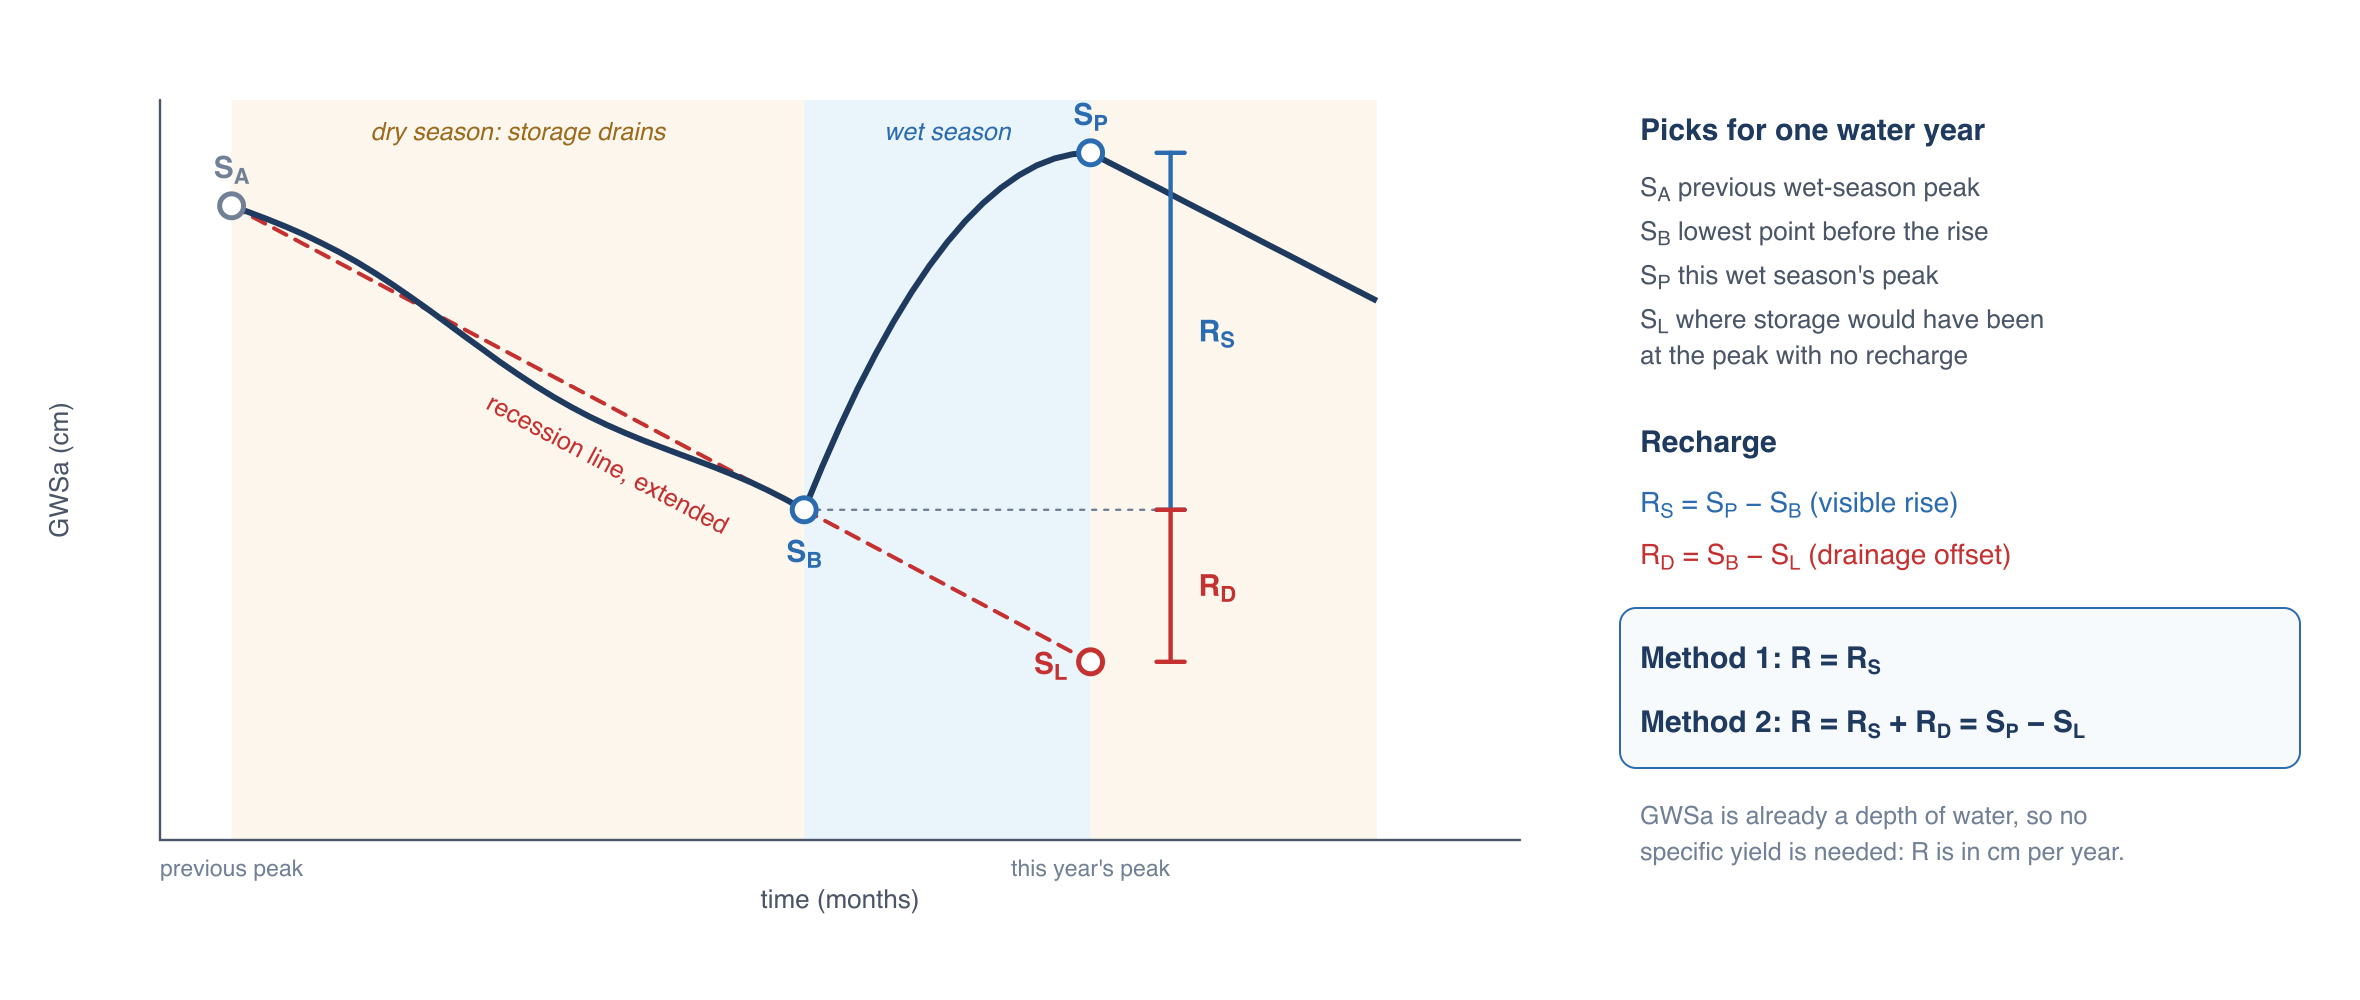
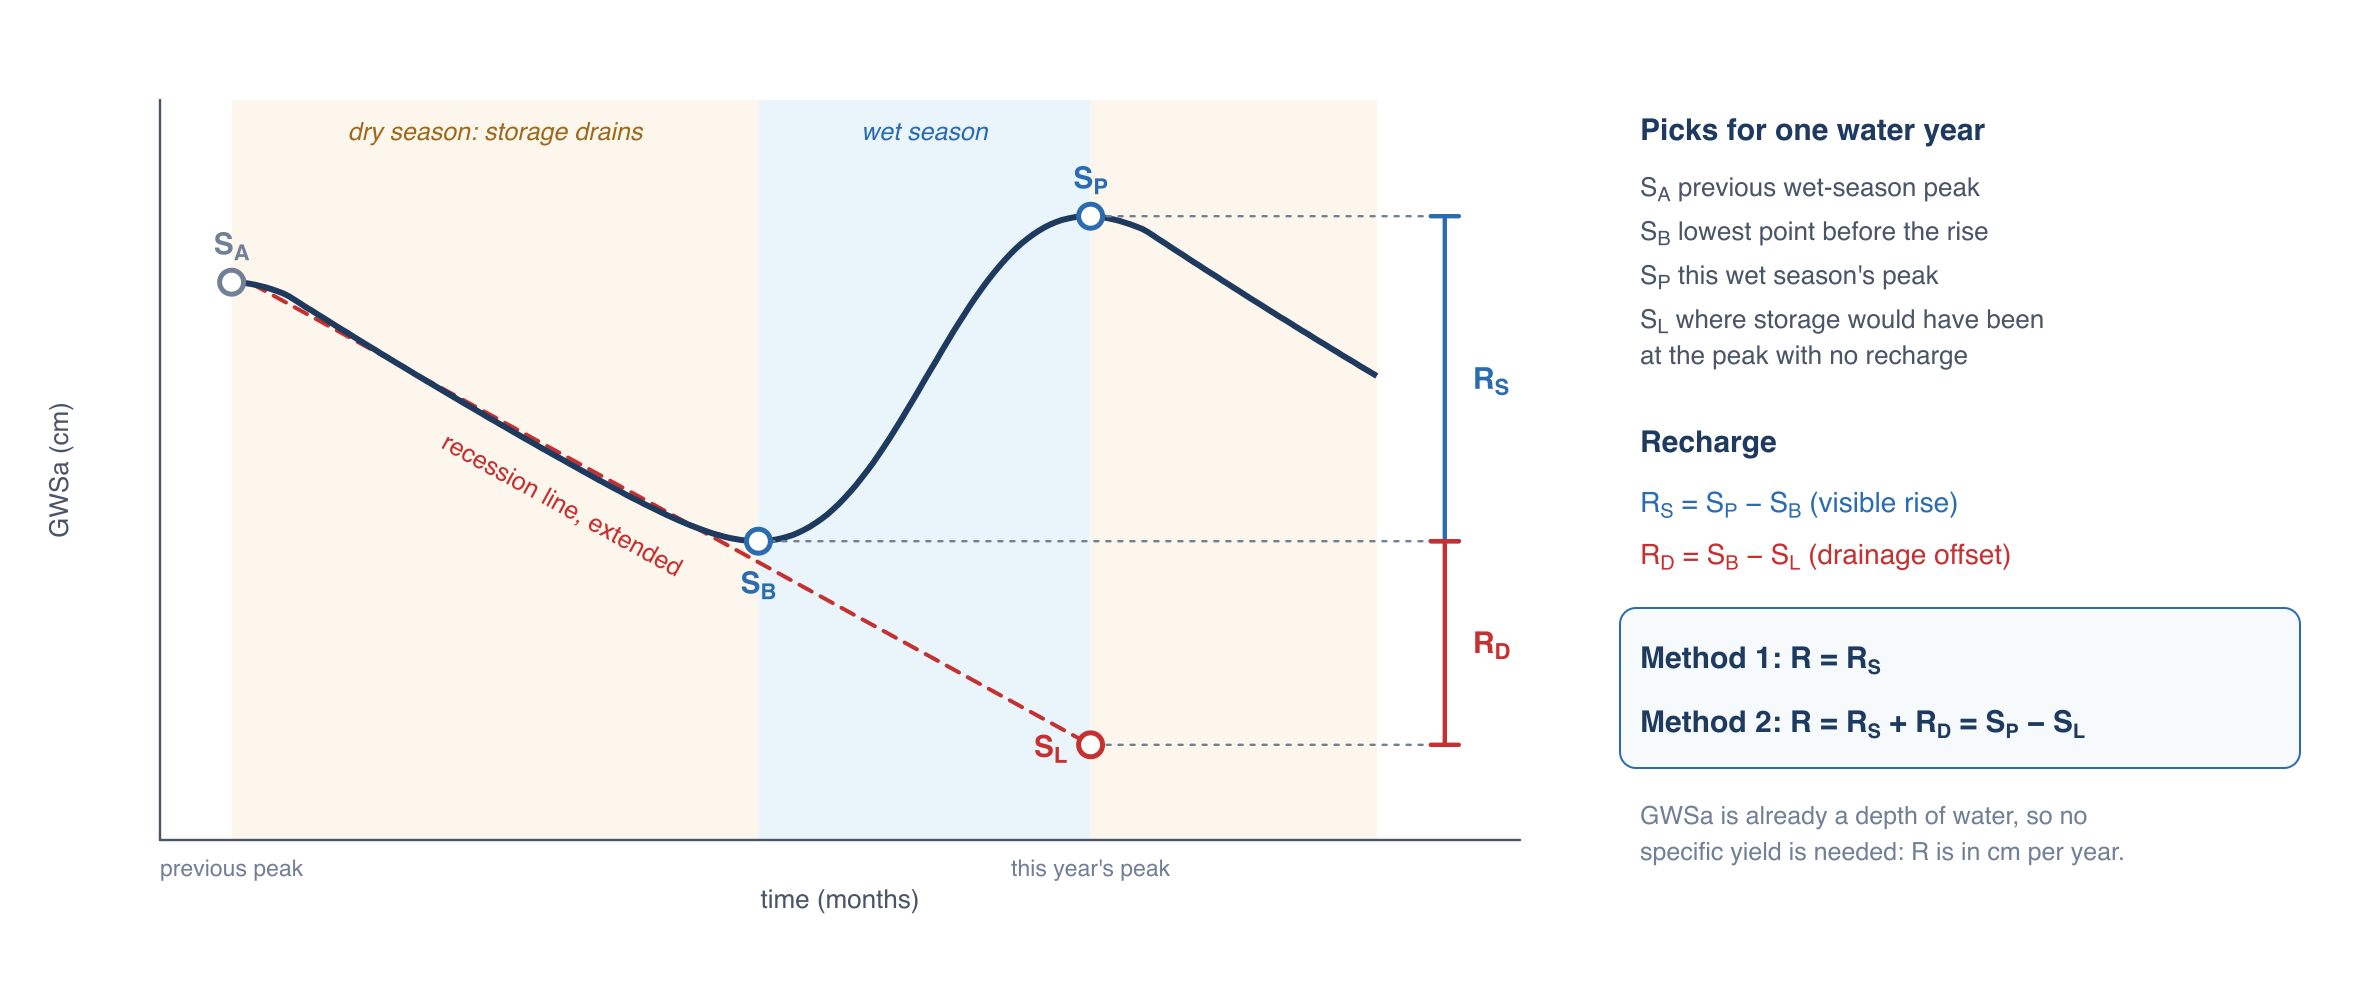
Draw the WTF concept curve from a linear reservoir model
The hand-built curve had a kink at the trough and a wobble in the
recession. The series now comes from storage draining in proportion to
its height with a smooth wet-season recharge pulse, which gives a natural
recession, a rounded trough and peak, and Rs larger than Rd. The
brackets move right of the curve, reached by dotted guides.

diff --git a/tools/grace-figures/wtf.py b/tools/grace-figures/wtf.py
@@ -11,49 +11,73 @@ def X(t):
     return L + (t + 1) / (months + 1) * (R - L)
 
 
-def Y(v):                               # v in cm, range -8 .. 6
-    return T + (6 - v) / 14 * (B - T)
+def Y(v):                               # vertical range fitted to the series and S_L below
+    return T + (Y_TOP - v) / (Y_TOP - Y_BOT) * (B - T)
 
 
-# synthetic series: peak at t=0, recession to t=8, wet-season rise to t=12, recession after
-def gw(t):
-    if t <= 8:
-        return 4 - 0.75 * t + 0.25 * math.sin(t)             # recession
-    if t <= 12:
-        s = (t - 8) / 4
-        b = 4 - 0.75 * 8 + 0.25 * math.sin(8)
-        return b + (5 - b) * (1 - (1 - s) ** 2)
-    return 5 - 0.7 * (t - 12)
+# Synthetic series from a linear reservoir: storage drains in proportion to its height above a base
+# level, and a smooth recharge pulse arrives each wet season. Spun up over several years so the cycle
+# is periodic, then cut from one wet-season peak (S_A, t = 0) to a few months past the next one.
+K, BASE, DT = 0.03, -20.0, 0.01                 # drainage rate (1/month), base level (cm), step (months)
 
 
-pts = [(t / 4, gw(t / 4)) for t in range(0, 4 * 16 + 1)]
-SA = (0, gw(0))
-SB = (8, gw(8))
-SP = (12, gw(12))
-slope = (SB[1] - SA[1]) / (SB[0] - SA[0])
-SL = (12, SA[1] + slope * 12)
+def recharge(t):
+    m = t % 12
+    return 4.0 * math.exp(-((m - 9.0) / 1.4) ** 2 / 2)
+
+
+series, s, t = [], 0.0, 0.0
+while t < 90:
+    s += DT * (recharge(t) - K * (s - BASE))
+    t += DT
+    series.append((t, s))
+peaks = [series[i] for i in range(1, len(series) - 1)
+         if series[i][1] > series[i - 1][1] and series[i][1] >= series[i + 1][1] and series[i][0] > 36]
+t0 = peaks[0][0]
+pts = [(tt - t0, v) for tt, v in series if t0 <= tt <= t0 + 16]
+step = max(1, len(pts) // 200)
+pts = pts[::step]
+
+SA = pts[0]
+SB = min((p for p in pts if p[0] < 12), key=lambda p: p[1])
+SP = max((p for p in pts if p[0] > SB[0]), key=lambda p: p[1])
+# recession line: least-squares fit through the series from S_A to S_B, extended to the peak time
+fit = [p for p in pts if p[0] <= SB[0]]
+n = len(fit); mx = sum(p[0] for p in fit) / n; my = sum(p[1] for p in fit) / n
+slope = sum((p[0] - mx) * (p[1] - my) for p in fit) / sum((p[0] - mx) ** 2 for p in fit)
+icpt = my - slope * mx
+SL = (SP[0], icpt + slope * SP[0])
+tB, tP, tEnd = SB[0], SP[0], pts[-1][0]
+span = max(p[1] for p in pts) - SL[1]
+Y_TOP, Y_BOT = max(p[1] for p in pts) + 0.22 * span, SL[1] - 0.18 * span
 
 out = []
 # seasons
-out += [f'<rect x="{X(0):.1f}" y="{T}" width="{X(8) - X(0):.1f}" height="{B - T}" fill="#fdf6ec"/>',
-        f'<rect x="{X(8):.1f}" y="{T}" width="{X(12) - X(8):.1f}" height="{B - T}" fill="#eaf4fb"/>',
-        f'<rect x="{X(12):.1f}" y="{T}" width="{X(16) - X(12):.1f}" height="{B - T}" fill="#fdf6ec"/>',
-        text((X(0) + X(8)) / 2, T + 20, "dry season: storage drains", 12.5, fill="#9c6a1d", italic=True),
-        text((X(8) + X(12)) / 2, T + 20, "wet season", 12.5, fill=C["blue"], italic=True)]
+out += [f'<rect x="{X(0):.1f}" y="{T}" width="{X(tB) - X(0):.1f}" height="{B - T}" fill="#fdf6ec"/>',
+        f'<rect x="{X(tB):.1f}" y="{T}" width="{X(tP) - X(tB):.1f}" height="{B - T}" fill="#eaf4fb"/>',
+        f'<rect x="{X(tP):.1f}" y="{T}" width="{X(tEnd) - X(tP):.1f}" height="{B - T}" fill="#fdf6ec"/>',
+        text((X(0) + X(tB)) / 2, T + 20, "dry season: storage drains", 12.5, fill="#9c6a1d", italic=True),
+        text((X(tB) + X(tP)) / 2, T + 20, "wet season", 12.5, fill=C["blue"], italic=True)]
 # axes
 out += [line(L, B, R, B, "darkgray", 1.2), line(L, T, L, B, "darkgray", 1.2),
         f'<text x="0" y="0" transform="translate({L - 46},{(T + B) / 2}) rotate(-90)" font-family="{FONT}" '
         f'font-size="13" text-anchor="middle" fill="{C["darkgray"]}">GWSa (cm)</text>',
         text((L + R) / 2, B + 34, "time (months)", 13)]
 # recession line extended
-out.append(line(X(SA[0]), Y(SA[1]), X(SL[0]), Y(SL[1]), "red", 2, dash="7 5"))
-out.append(text(X(5.2), Y(SA[1] + slope * 5.2) + 34, "recession line, extended", 12.5, fill=C["red"],
-                style=f'transform="rotate({math.degrees(math.atan2(Y(SA[1] + slope) - Y(SA[1]), X(1) - X(0))):.1f} {X(5.2):.1f} {Y(SA[1] + slope * 5.2) + 34:.1f})"'))
+out.append(line(X(0), Y(icpt), X(SL[0]), Y(SL[1]), "red", 2, dash="7 5"))
+lt = tB * 0.62                          # label position along the fitted recession line
+ly_ = Y(icpt + slope * lt) + 30
+ang = math.degrees(math.atan2(Y(icpt + slope) - Y(icpt), X(1) - X(0)))
+out.append(text(X(lt), ly_, "recession line, extended", 12.5, fill=C["red"],
+                style=f'transform="rotate({ang:.1f} {X(lt):.1f} {ly_:.1f})"'))
 # series
 poly = " ".join(f"{X(t):.1f},{Y(v):.1f}" for t, v in pts)
 out.append(f'<polyline points="{poly}" fill="none" stroke="{C["navy"]}" stroke-width="3"/>')
 # guide: S_B level across to the peak time
-out.append(line(X(SB[0]), Y(SB[1]), X(12) + 40, Y(SB[1]), "gray", 1.2, dash="2 4"))
+BX = X(tEnd) + 34                       # brackets sit right of the curve, reached by dotted guides
+out.append(line(X(SB[0]), Y(SB[1]), BX, Y(SB[1]), "gray", 1.2, dash="2 4"))
+out.append(line(X(SP[0]) + 8, Y(SP[1]), BX, Y(SP[1]), "gray", 1.2, dash="2 4"))
+out.append(line(X(SL[0]) + 8, Y(SL[1]), BX, Y(SL[1]), "gray", 1.2, dash="2 4"))
 # points
 for (t, v), lab, col, dx, dy in [(SA, "S<tspan font-size='11' baseline-shift='sub'>A</tspan>", C["gray"], 0, -14),
                                   (SB, "S<tspan font-size='11' baseline-shift='sub'>B</tspan>", C["blue"], 0, 26),
@@ -63,13 +87,13 @@ for (t, v), lab, col, dx, dy in [(SA, "S<tspan font-size='11' baseline-shift='su
     out.append(f'<text x="{X(t) + dx:.1f}" y="{Y(v) + dy:.1f}" font-family="{FONT}" font-size="15" font-weight="bold" '
                f'text-anchor="middle" fill="{col}">{lab}</text>')
 # brackets at peak time
-bx = X(12) + 40
+bx = BX
 for y0, y1, col, lab in [(Y(SP[1]), Y(SB[1]), "blue", "R<tspan font-size='11' baseline-shift='sub'>S</tspan>"),
                          (Y(SB[1]), Y(SL[1]), "red", "R<tspan font-size='11' baseline-shift='sub'>D</tspan>")]:
     out += [line(bx, y0, bx, y1, col, 2.2), line(bx - 7, y0, bx + 7, y0, col, 2.2), line(bx - 7, y1, bx + 7, y1, col, 2.2),
             f'<text x="{bx + 14}" y="{(y0 + y1) / 2 + 5:.1f}" font-family="{FONT}" font-size="15" font-weight="bold" fill="{C[col]}">{lab}</text>']
 out.append(text(X(0), B + 18, "previous peak", 11.5, fill=C["gray"]))
-out.append(text(X(12), B + 18, "this year's peak", 11.5, fill=C["gray"]))
+out.append(text(X(tP), B + 18, "this year's peak", 11.5, fill=C["gray"]))
 
 # legend / equations on the right
 ex = 820
